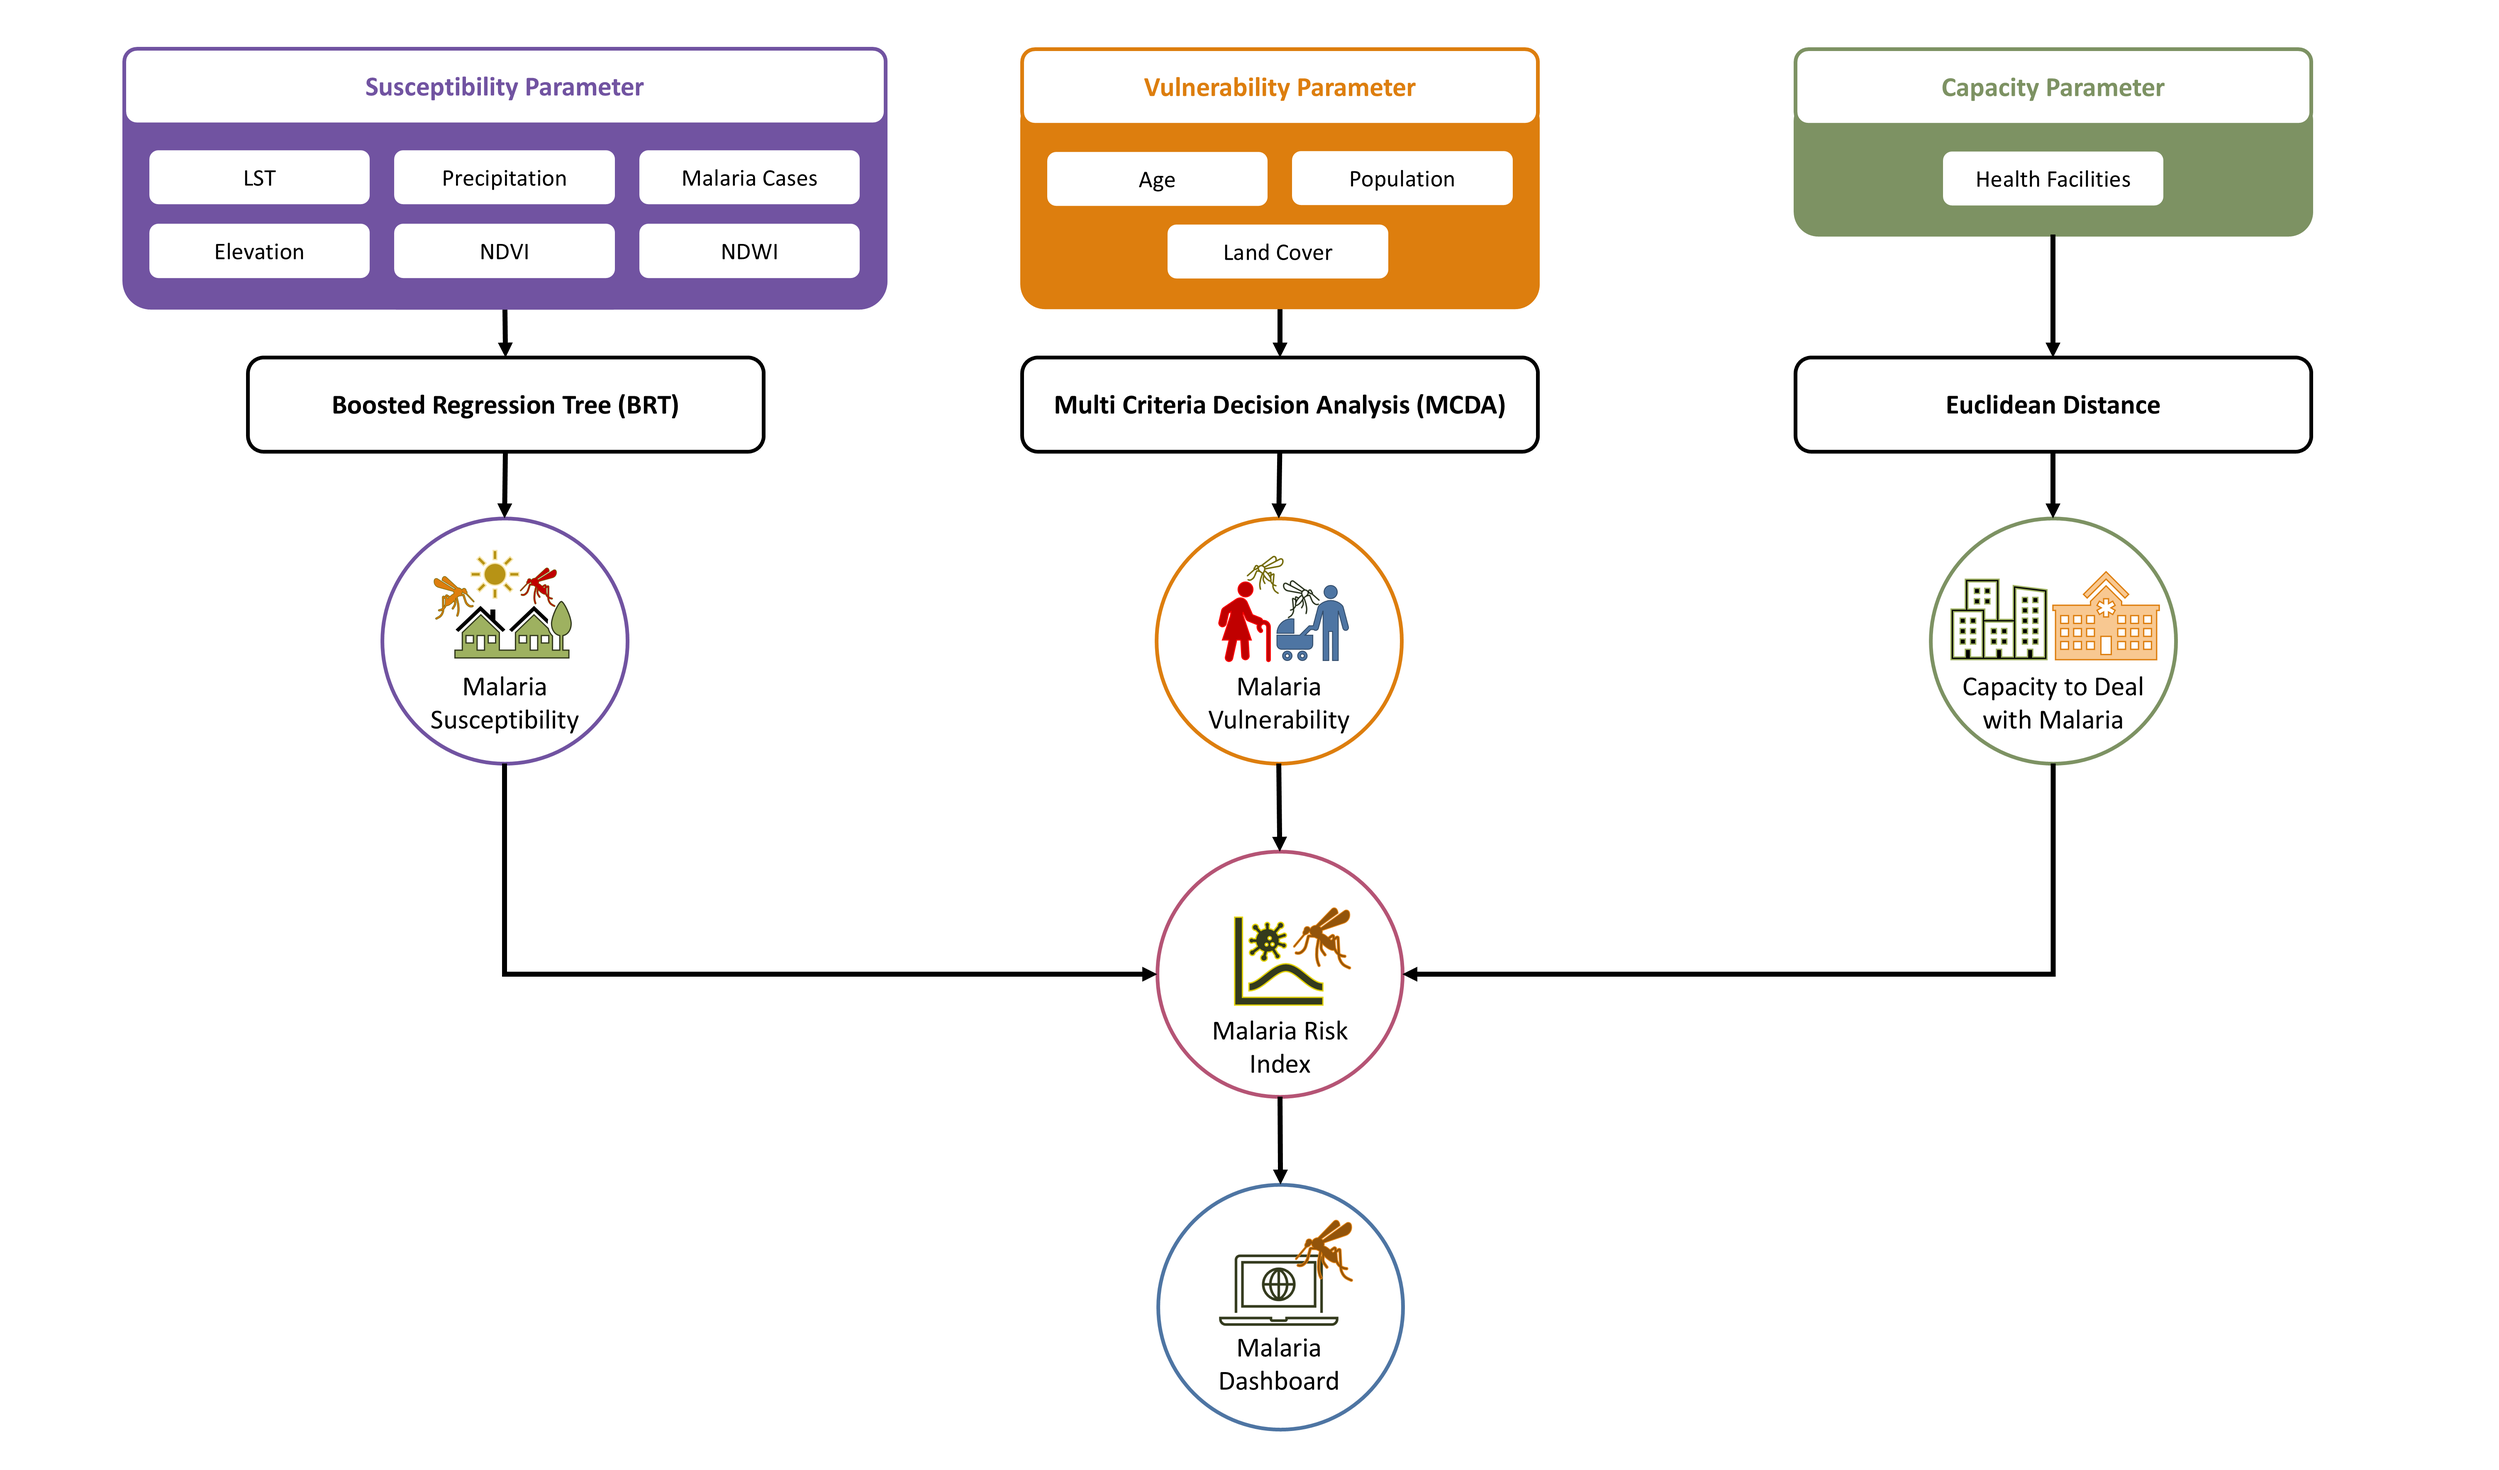
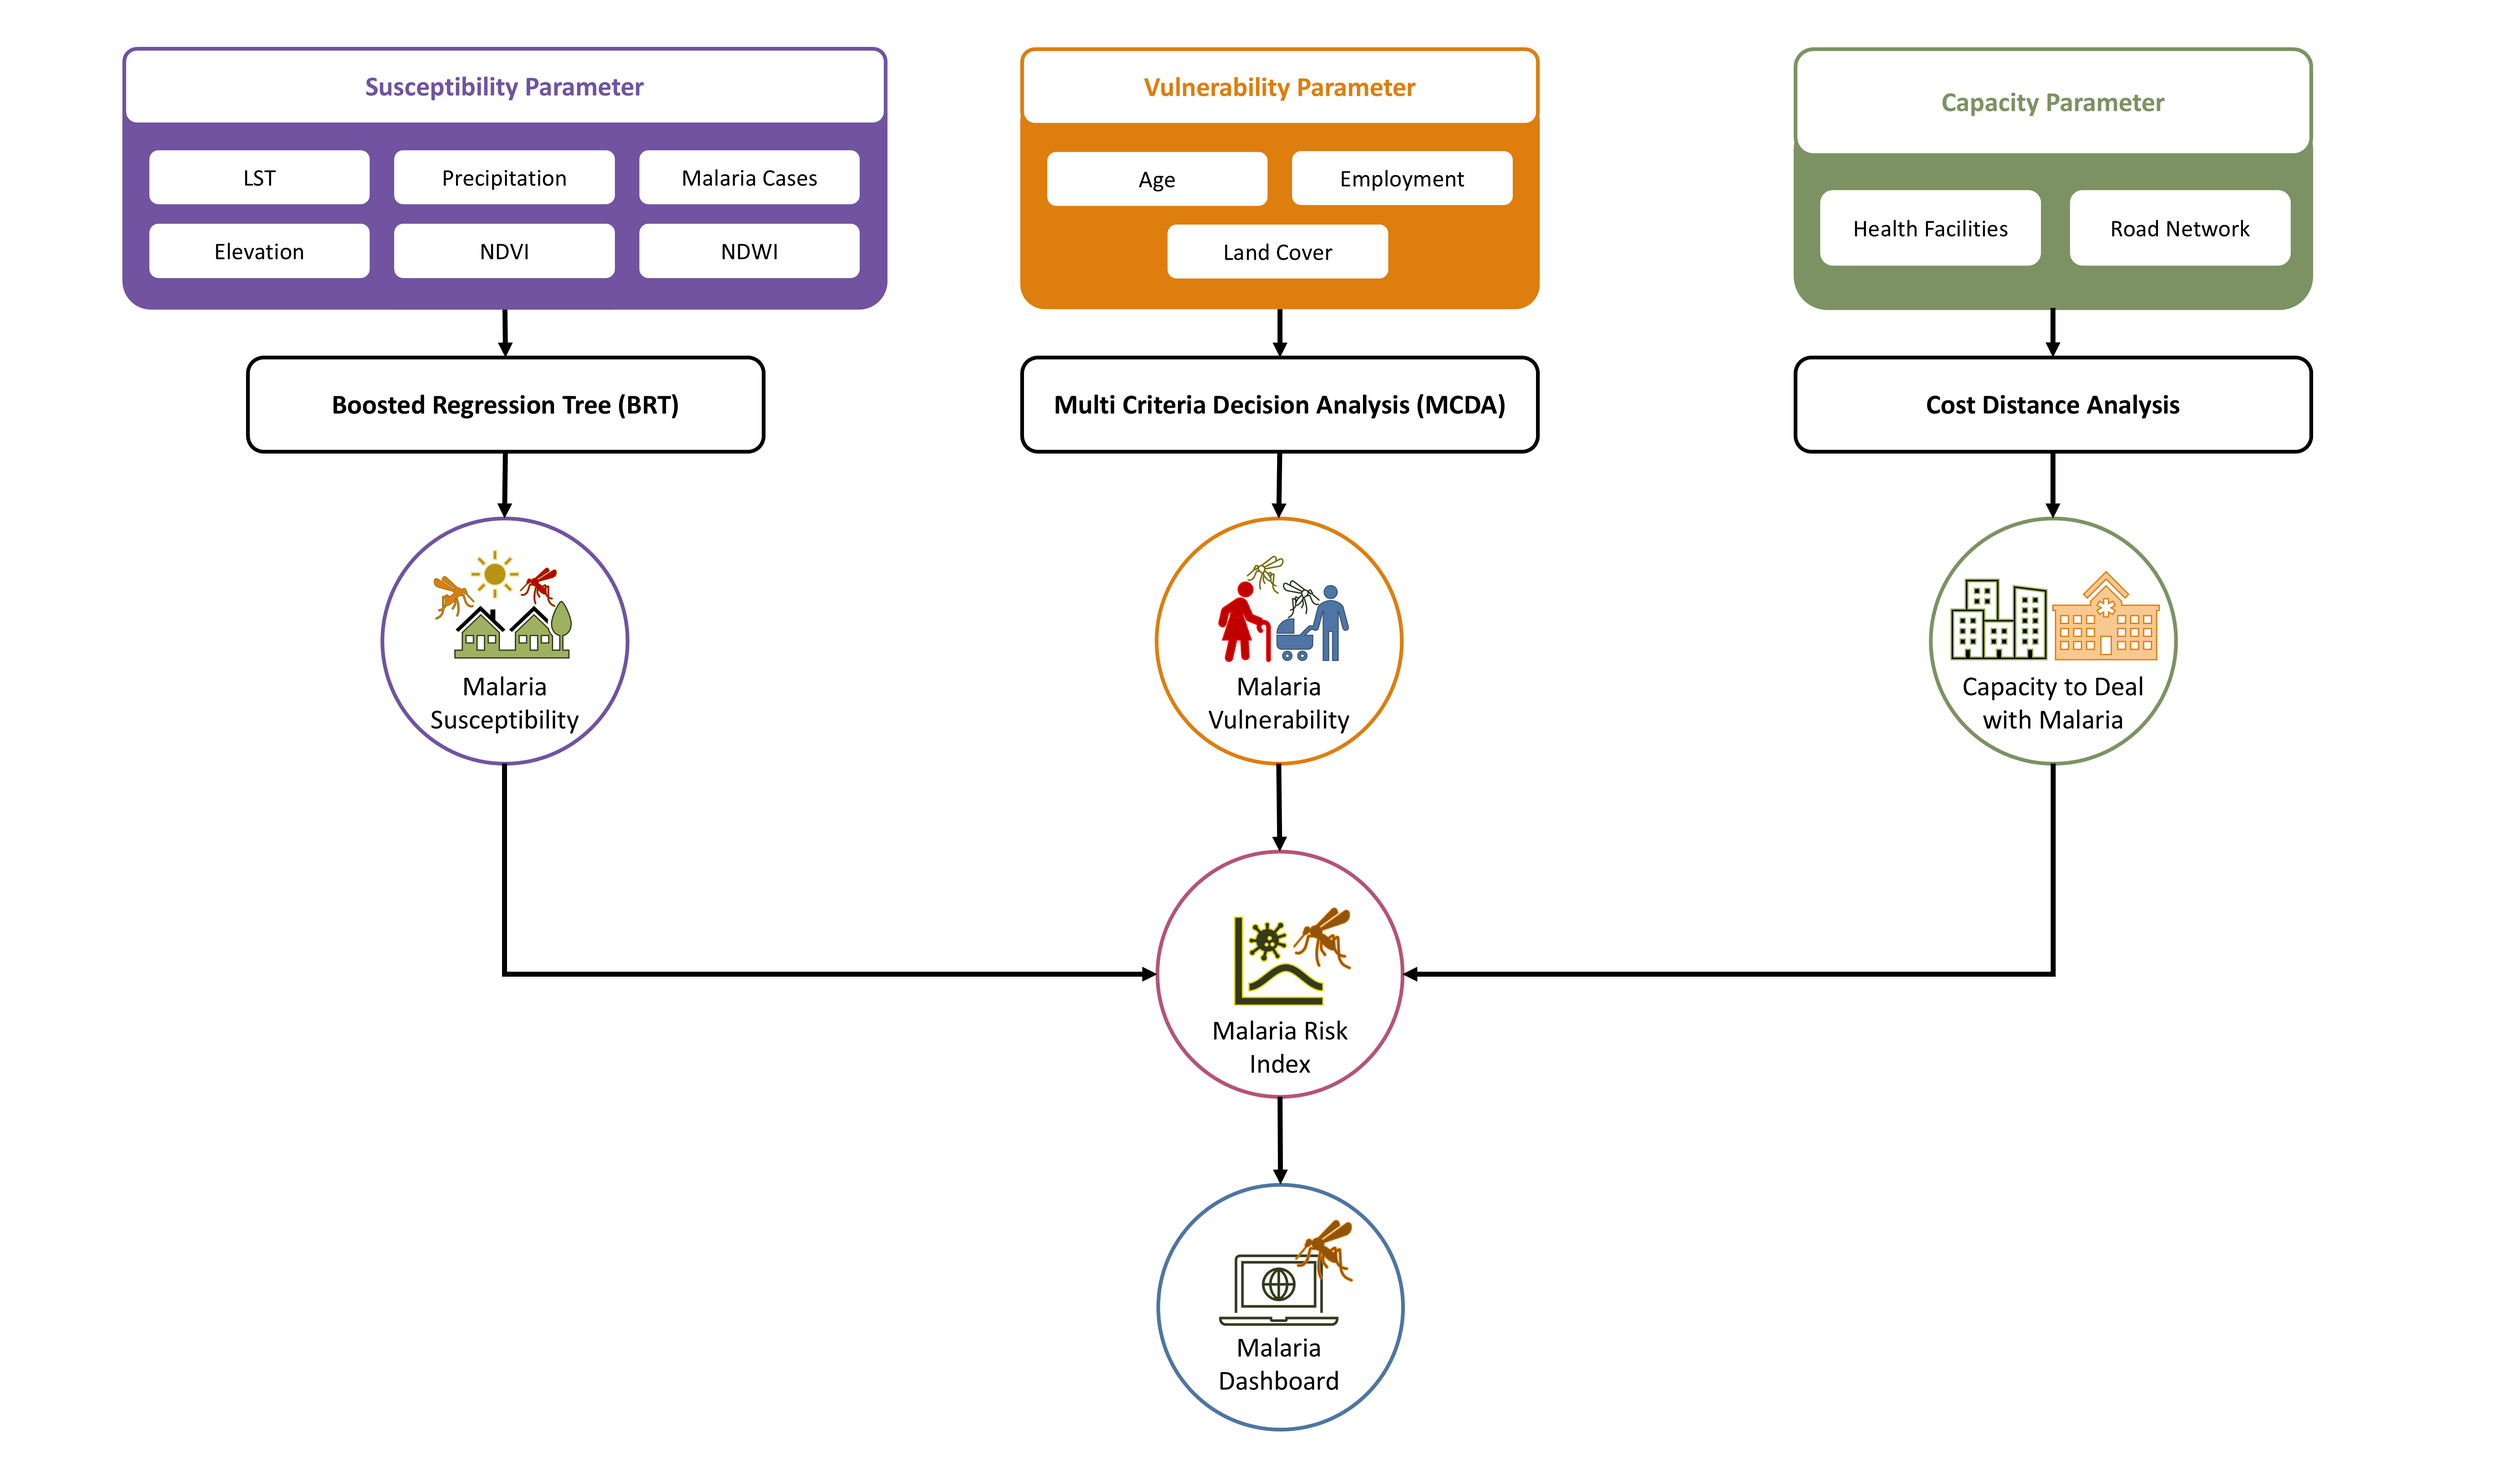
Update on Framework, Data and Methodology

Changed region(s): [[0.7179, 0.031, 0.9364, 0.2173], [0.7803, 0.2484, 0.874, 0.2794], [0.5306, 0.0931, 0.5618, 0.1242]]

diff --git a/index.html b/index.html
@@ -5,7 +5,7 @@
     <meta charset="utf-8" />
     <meta name="author" content="    Group: Tropical Threat" />
     <meta name="date" content="2025-03-18" />
-    <script src="libs/header-attrs-2.29/header-attrs.js"></script>
+    <script src="libs/header-attrs-2.28/header-attrs.js"></script>
     <link href="libs/panelset-0.3.0/panelset.css" rel="stylesheet" />
     <script src="libs/panelset-0.3.0/panelset.js"></script>
     <link rel="stylesheet" href="xaringan-themer.css" type="text/css" />
@@ -179,9 +179,8 @@ Surveillance in areas of high &amp; low transmission and in areas targeted for e
 | 3  | Land Cover   | ESRI     | Annual Land Cover    | 10 m               | 2023 |
 | 4  | NDVI         | MODIS    | NDVI                 | 500 m              | 2024 |
 | 5  | NDWI         | MODIS    | NDWI                 | 463.3 m            | 2023 |
-| 6  | Population   | Worldpop | Population           | 92.77 m            | 2020 |
-| 7  | Precipitation| CHIRPS   | Precipitation        | 5566 m             | 2024 |
-| 8  | Age          | Worldpop | M_0 – M_15, M_60 – M_80, F_0 – F_15, F_60 – F_80 | 92.77 m | 2020 |
+| 6  | Precipitation| CHIRPS   | Precipitation        | 5566 m             | 2024 |
+| 7  | Age          | Worldpop | M_0 – M_15, M_60 – M_80, F_0 – F_15, F_60 – F_80 | 92.77 m | 2020 |
 
 ---
 
@@ -190,11 +189,13 @@ Surveillance in areas of high &amp; low transmission and in areas targeted for e
 | No | Data                   | Product               | Type    | Time |
 |----|------------------------|-----------------------|---------|------|
 | 1  | Health Facility        | Open Street Map       | Points  | 2024 |
-| 2  | Malaria Cases          | Malaria Atlas Project | Points  | 2015 |
-| 3  | Administration Boundary | Indonesia Geospatial Agency| Polygon | 2022 |
+| 2  | Malaria Cases          | SISMAL Indonesia      | Points  | 2024 |
+| 3  | Road Networks          | Open Street Map       | Line    | 2024 |
+| 4  | Employment             | Central Bureau of Statistics Indonesia | Polygon | 2024 |
+| 5  | Administration Boundary | Indonesia Geospatial Agency| Polygon  | 2018 |
 
 &lt;div style="text-align: center;"&gt;
-  &lt;img src="Layout_Vector.png" width="60%"&gt;
+  &lt;img src="Layout_Vector.png" width="40%"&gt;
 &lt;/div&gt;
 
 ---
@@ -206,78 +207,37 @@ Surveillance in areas of high &amp; low transmission and in areas targeted for e
 $$
 Malaria\ Risk\ Index = \frac{Susceptibility + Vulnerability + Capacity}{3}
 $$
-&lt;style&gt;
-  .tab {
-    display: inline-block;
-    padding: 10px 20px;
-    margin: 0;
-    font-size: 18px;
-    cursor: pointer;
-    border-bottom: 3px solid transparent;
-  }
-  .tab.active {
-    border-bottom: 3px solid #800080;
-    font-weight: bold;
-  }
-  .tab-content {
-    display: none;
-  }
-  .tab-content.active {
-    display: block;
-  }
-&lt;/style&gt;
 
-&lt;div&gt;
-  &lt;span class="tab active" onclick="showTab(0)"&gt;Susceptibility&lt;/span&gt;
-  &lt;span class="tab" onclick="showTab(1)"&gt;Vulnerability&lt;/span&gt;
-  &lt;span class="tab" onclick="showTab(2)"&gt;Capacity&lt;/span&gt;
-&lt;/div&gt;
+.panelset[
+.panel[.panel-name[Susceptibility]
+* Extract LST, Precipitation, NDVI, and NDWI data and filter it for summer period (April - September) and minimum cloud cover
+* Get the mean value of each LST, Precipitation, NDVI, and NDWI
+* Divide the Malaria Cases Point for training and testing data
+* Apply Boosted Regression Tree machine learning algorithm to get the susceptibility index
+]
 
-&lt;div class="tab-content active"&gt;
-  &lt;ul&gt;
-  &lt;li&gt;Extract LST, Precipitation, NDVI, and NDWI data and filter it for summer period (April - September) and minimum cloud cover &lt;/li&gt;
-  &lt;li&gt;Get the mean value of each LST, Precipitation, NDVI, and NDWI&lt;/li&gt;
-  &lt;li&gt;Divide the Malaria Cases Point for training and testing data&lt;/li&gt;
-  &lt;li&gt;Apply Boosted Regression Tree machine learning algorithm to get the susceptibility index&lt;/li&gt;
-  &lt;/ul&gt;
-&lt;/div&gt;
+.panel[.panel-name[Vulnerability]
+* Extract Land Cover Data and classify it into vulnerability scores
+* Extract vulnerable population by age (0-15 and &gt;60)
+* Sum the vulnerable population
+* Classify employment data to field and inside building and gives score 1 and 0, respectively
+* Apply Fuzzy Logic Model (FLM) to normalize the value of vulnerable population to 0-1
+* Apply Multi Criteria Decision Analysis (MCDA) to get the vulnerable index
+]
 
-&lt;/div&gt;
-&lt;div class="tab-content"&gt;
-  &lt;ul&gt;
-  &lt;li&gt;Extract built areas from Land Cover Data and give value 1 for these areas&lt;/li&gt;
-  &lt;li&gt;Extract vulnerable population by age (0-15 and &gt;60)&lt;/li&gt;
-  &lt;li&gt;Sum the vulnerable population&lt;/li&gt;
-  &lt;li&gt;Apply Fuzzy Logic Model (FLM) to normalize the value of population and vulnerable population to 0-1&lt;/li&gt;
-  &lt;li&gt;Apply Multi Criteria Decision Analysis (MCDA) to get the vulnerable index&lt;/li&gt;
-  &lt;/ul&gt;
-&lt;/div&gt;
-  
-&lt;/div&gt;
-&lt;div class="tab-content"&gt;
-  &lt;ul&gt;
-  &lt;li&gt;Extract hospital location point from Open Street Map (OSM)&lt;/li&gt;
-  &lt;li&gt;Calculate distance using Euclidean Distance&lt;/li&gt;
-  &lt;li&gt;Apply Fuzzy Logic Model (FLM) to normalize the value of distance to 0-1&lt;/li&gt;
-  &lt;/ul&gt;
-&lt;/div&gt;
-
-&lt;script&gt;
-  function showTab(index) {
-    document.querySelectorAll(".tab").forEach((tab, i) =&gt; {
-      tab.classList.toggle("active", i === index);
-    });
-    document.querySelectorAll(".tab-content").forEach((content, i) =&gt; {
-      content.classList.toggle("active", i === index);
-    });
-  }
-&lt;/script&gt;
-
+.panel[.panel-name[Capacity]
+* Extract hospital location point and road networks from Open Street Map (OSM)
+* Calculate distance using Cost Distance Analysis
+* Apply Fuzzy Logic Model (FLM) to normalize the value of distance to 0-1
+]
+]
 ---
 
 ## Sample Maps Preview
 
-![](Layout_Map.png)
+&lt;div style="text-align: center;"&gt;
+  &lt;img src="Layout_Map.png" width="95%"&gt;
+&lt;/div&gt;
 
 ---
 
